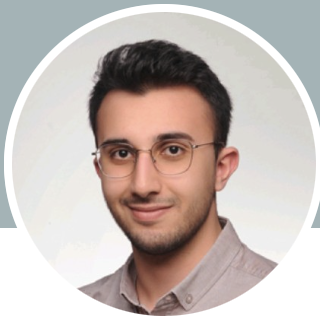
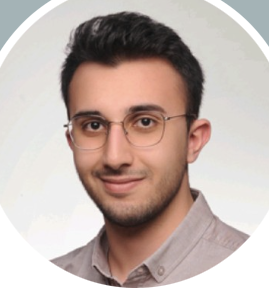
css added

diff --git a/index.html b/index.html
@@ -8,45 +8,18 @@
     <link href="https://stackpath.bootstrapcdn.com/bootstrap/4.5.2/css/bootstrap.min.css" rel="stylesheet">
     <!-- Font Awesome for icons -->
     <link href="https://cdnjs.cloudflare.com/ajax/libs/font-awesome/5.15.3/css/all.min.css" rel="stylesheet">
-    <style>
-        body {
-            padding-top: 50px;
-        }
-        .team-section {
-            padding: 50px 0;
-            background-color: #f8f9fa;
-        }
-        .profile-pic {
-            width: 150px;
-            height: 150px;
-            object-fit: cover;
-            border-radius: 50%;
-        }
-        .profile {
-            margin-bottom: 20px;
-        }
-        .social-links a {
-            margin: 0 10px;
-            color: #333;
-            font-size: 1.2rem;
-        }
-        .social-links a:hover {
-            color: #007bff;
-        }
-        .project-details {
-            padding: 50px;
-        }
-        header {
-            background-color: #d3d3d3; /* Changed to light grey */
-            color: #000; /* Black text for contrast */
-        }
-    </style>
+    <!-- Link to external CSS file -->
+    <link href="styles.css" rel="stylesheet">
 </head>
 <body>
     <!-- Navbar -->
     <nav class="navbar navbar-expand-lg navbar-dark bg-dark fixed-top">
         <div class="container">
-            <a class="navbar-brand" href="#">Senior Project</a>
+            <!-- PresentSense Logo -->
+            <a class="navbar-brand" href="#">
+                <img src="photos/presentsense-logo.png" alt="PresentSense Logo" style="height: 40px;">
+                PresentSense
+            </a>
             <button class="navbar-toggler" type="button" data-toggle="collapse" data-target="#navbarNav" aria-controls="navbarNav" aria-expanded="false" aria-label="Toggle navigation">
                 <span class="navbar-toggler-icon"></span>
             </button>
@@ -69,7 +42,7 @@
     <!-- Header Section -->
     <header class="text-center py-5">
         <div class="container">
-            <h1>Senior Project: Feedback System for Presentations</h1>
+            <h1>PresentSense</h1>
             <p class="lead">Improving presentation skills through innovative feedback solutions</p>
         </div>
     </header>
@@ -100,7 +73,7 @@
                     <div class="profile">
                         <img src="photos/sarper-photo.jpg" alt="Sarper Arda Bakır" class="profile-pic">
                         <h4>Sarper Arda Bakır</h4>
-                        <p>Role in the project.</p>
+                        <!-- <p>Role in the project.</p> -->
                         <div class="social-links">
                             <a href="https://www.linkedin.com/in/sarper-arda-bakir/" target="_blank"><i class="fab fa-linkedin"></i></a>
                             <a href="https://github.com/sarperarda" target="_blank"><i class="fab fa-github"></i></a>
@@ -114,7 +87,7 @@
                     <div class="profile">
                         <img src="photos/berkay-photo.jpg" alt="Berkay Akkuş" class="profile-pic">
                         <h4>Berkay Akkuş</h4>
-                        <p>Role in the project.</p>
+                        <!-- <p>Role in the project.</p> -->
                         <div class="social-links">
                             <a href="https://linkedin.com/in/berkay-akkus/" target="_blank"><i class="fab fa-linkedin"></i></a>
                             <a href="https://github.com/berkay-akkus" target="_blank"><i class="fab fa-github"></i></a>
@@ -128,7 +101,7 @@
                     <div class="profile">
                         <img src="photos/melih-photo.jpg" alt="Melih Güven" class="profile-pic">
                         <h4>Emre Melih Güven</h4>
-                        <p>Role in the project.</p>
+                        <!-- <p>Role in the project.</p> -->
                         <div class="social-links">
                             <a href="https://linkedin.com/in/emremelihgüven/" target="_blank"><i class="fab fa-linkedin"></i></a>
                             <a href="https://github.com/melihhguvenn" target="_blank"><i class="fab fa-github"></i></a>
@@ -142,7 +115,7 @@
                     <div class="profile">
                         <img src="photos/aysema-photo.jpg" alt="Aysema Kasap" class="profile-pic">
                         <h4>Aysema Kasap</h4>
-                        <p>Role in the project.</p>
+                        <!-- <p>Role in the project.</p> -->
                         <div class="social-links">
                             <a href="https://linkedin.com/in/aysema-kasap-666a28194/" target="_blank"><i class="fab fa-linkedin"></i></a>
                             <a href="https://github.com/aysemakasap" target="_blank"><i class="fab fa-github"></i></a>
@@ -156,7 +129,7 @@
                     <div class="profile">
                         <img src="photos/tuna-photo.jpg" alt="Tuna Okcu" class="profile-pic">
                         <h4>Tuna Okçu</h4>
-                        <p>Role in the project.</p>
+                        <!-- <p>Role in the project.</p> -->
                         <div class="social-links">
                             <a href="https://linkedin.com/in/tuna-okcu/" target="_blank"><i class="fab fa-linkedin"></i></a>
                             <a href="https://github.com/tunaokcu" target="_blank"><i class="fab fa-github"></i></a>
@@ -195,14 +168,15 @@
         </div>
     </section>
 
-    <!-- Contact Section -->
+   <!-- Contact Section -->
     <section id="contact" class="text-center py-5 bg-dark text-white">
         <div class="container">
             <h2>Contact Us</h2>
             <p>If you have any questions, feel free to reach out!</p>
-            <a href="mailto:arda.bakir@ug.bilkent.edu.tr" class="btn btn-primary">Email Us</a>
+            <a href="mailto:arda.bakir@ug.bilkent.edu.tr" class="btn btn-grey">Email Us</a>
         </div>
     </section>
+
 
     <!-- Bootstrap JS, Popper.js, and jQuery -->
     <script src="https://code.jquery.com/jquery-3.5.1.slim.min.js"></script>

diff --git a/styles.css b/styles.css
@@ -1,0 +1,53 @@
+body {
+    padding-top: 50px;
+}
+
+.team-section {
+    padding: 50px 0;
+    background-color: #f8f9fa;
+}
+
+.profile-pic {
+    width: 150px;
+    height: 150px;
+    object-fit: cover;
+    border-radius: 50%;
+}
+
+.profile {
+    margin-bottom: 20px;
+}
+
+.social-links a {
+    margin: 0 10px;
+    color: #333;
+    font-size: 1.2rem;
+}
+
+.social-links a:hover {
+    color: #007bff;
+}
+
+.project-details {
+    padding: 50px;
+}
+
+header {
+    background-color: #d3d3d3; /* Changed to light grey */
+    color: #000; /* Black text for contrast */
+}
+
+.btn-grey {
+    background-color: grey;
+    color: white;
+    border: none;
+    padding: 10px 20px;
+    text-decoration: none;
+    display: inline-block;
+    font-size: 16px;
+    cursor: pointer;
+}
+
+.btn-grey:hover {
+    background-color: darkgrey;
+}
